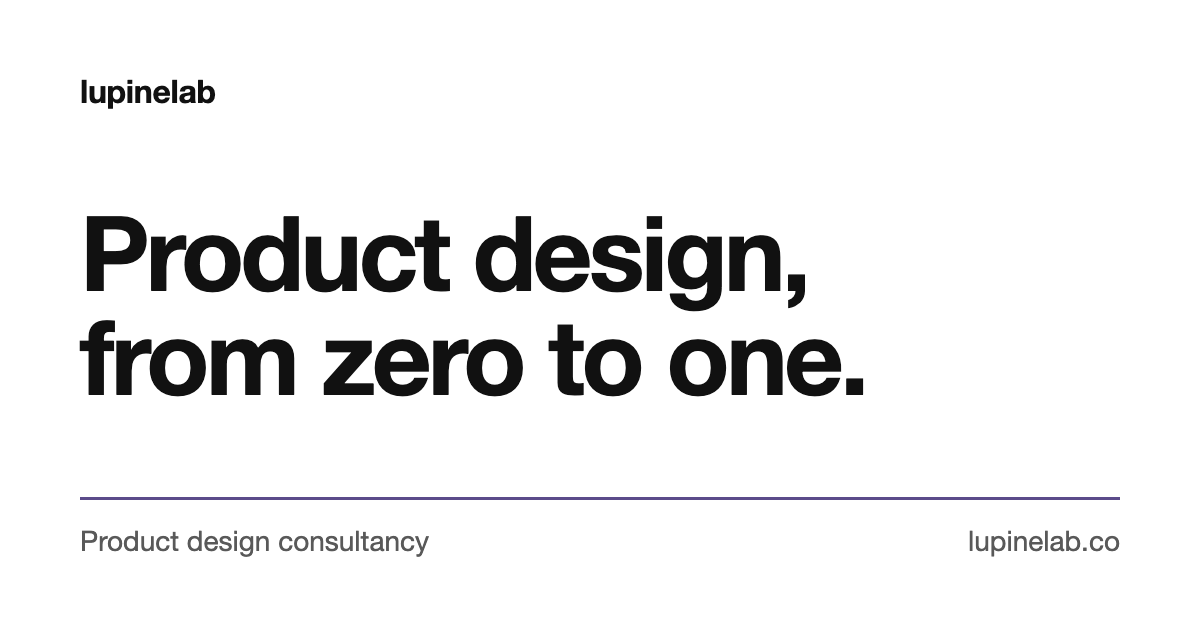
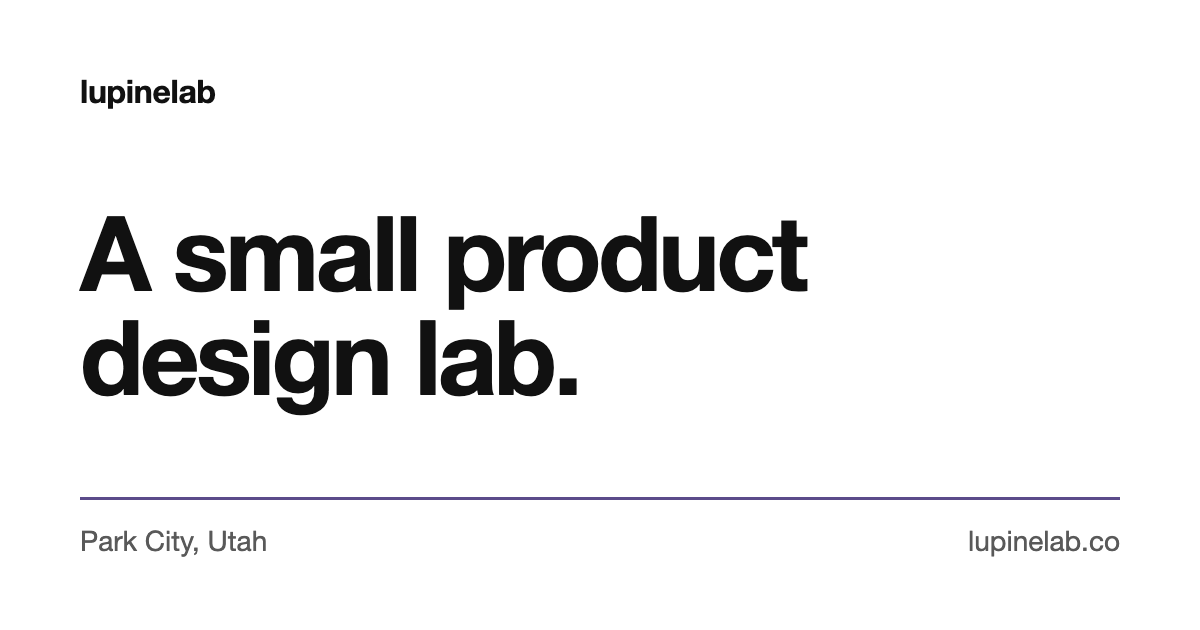
Change headline to "A small product design lab."
Updates the h1, tab title (now includes Park City, Utah), share-preview
title and alt text, and re-renders the share image to match.

Changed region(s): [[0.0617, 0.3317, 0.6783, 0.5127], [0.0617, 0.5127, 0.74, 0.6635], [0.0617, 0.8444, 0.37, 0.8746]]

diff --git a/index.html b/index.html
@@ -3,7 +3,7 @@
 <head>
   <meta charset="utf-8">
   <meta name="viewport" content="width=device-width, initial-scale=1">
-  <title>lupinelab — Product design consultancy, from zero to one</title>
+  <title>lupinelab · A small product design lab in Park City, Utah</title>
   <meta name="description" content="lupinelab is a product design consultancy in Park City, Utah, led by Cassy Taylor. We design new products from scratch, and design and publish our own apps.">
   <link rel="canonical" href="https://lupinelab.co/">
   <meta name="robots" content="index, follow">
@@ -174,12 +174,12 @@
   <meta property="og:type" content="website">
   <meta property="og:site_name" content="lupinelab">
   <meta property="og:url" content="https://lupinelab.co/">
-  <meta property="og:title" content="lupinelab — Product design, from zero to one">
+  <meta property="og:title" content="lupinelab · A small product design lab">
   <meta property="og:description" content="lupinelab is a product design consultancy. We also design and publish our own apps.">
   <meta property="og:image" content="https://lupinelab.co/og-image.png">
   <meta property="og:image:width" content="1200">
   <meta property="og:image:height" content="630">
-  <meta property="og:image:alt" content="lupinelab: Product design, from zero to one.">
+  <meta property="og:image:alt" content="lupinelab: A small product design lab.">
   <meta property="og:locale" content="en_US">
   <meta name="twitter:card" content="summary_large_image">
 
@@ -231,7 +231,7 @@
 
     <main>
       <section class="intro">
-        <h1>Product design, from zero to one.</h1>
+        <h1>A small product design lab.</h1>
         <p class="subhead">lupinelab is a product design consultancy. We also design and publish our own apps.</p>
       </section>
 
